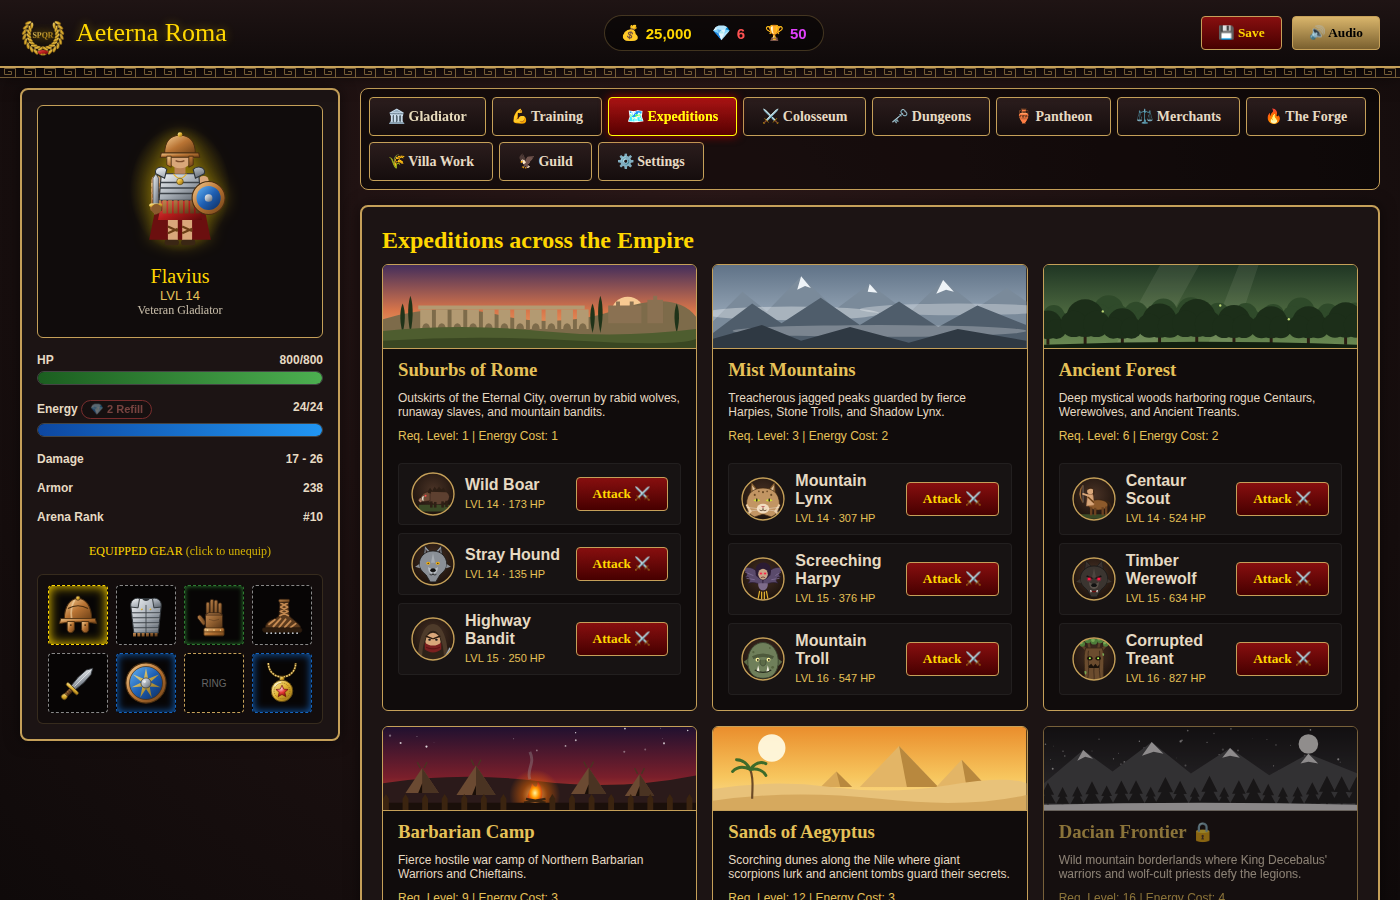
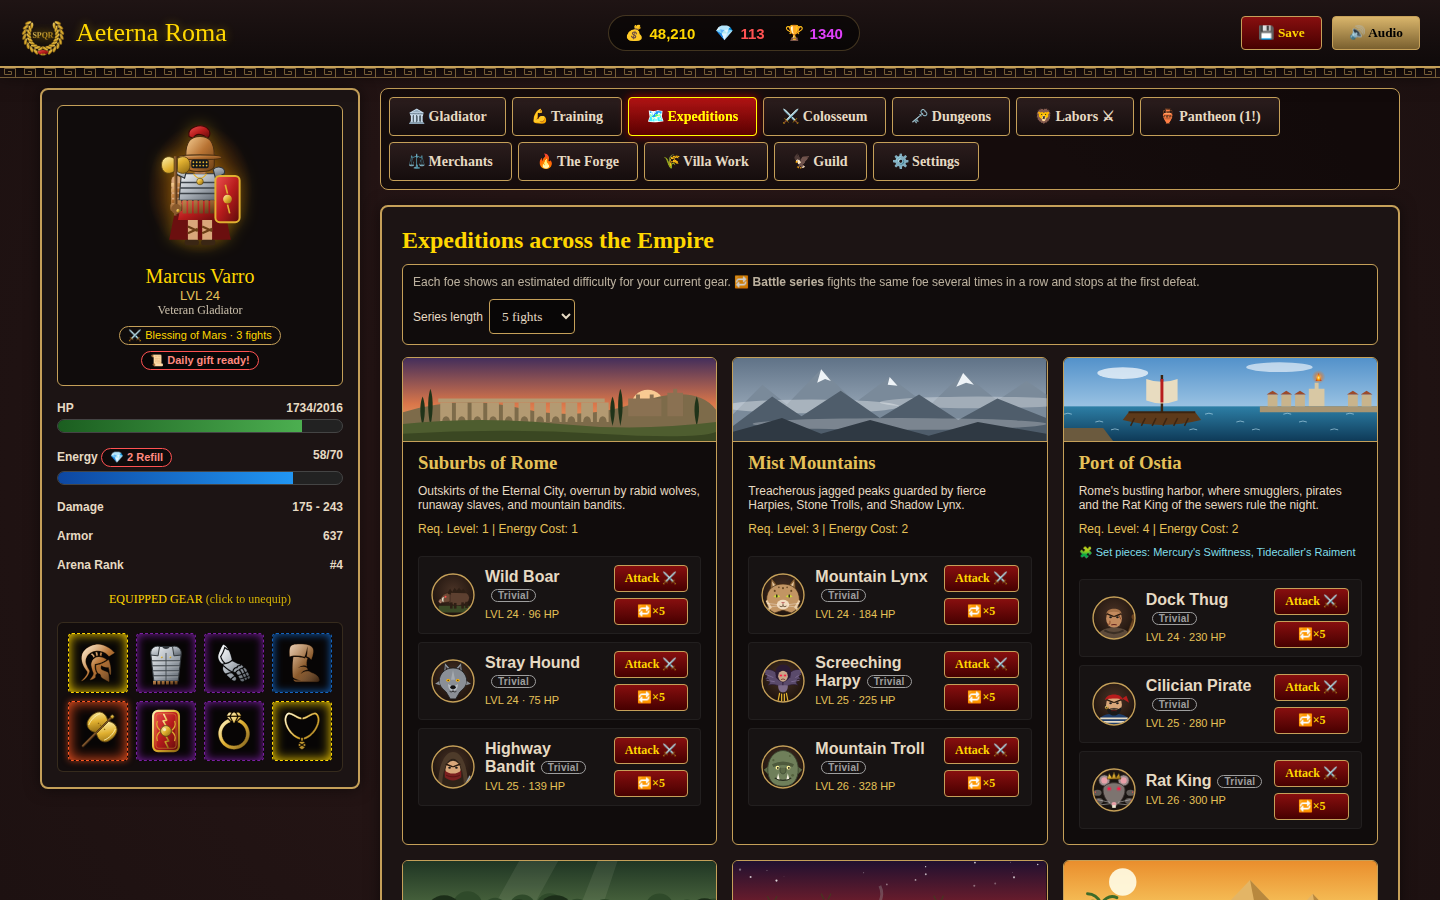
Update README screenshots
Replace the two old screenshots with four current ones: the character sheet
with an item tooltip, expeditions with difficulty ratings and battle series,
the Labors of Hercules, and a battle series report.

Claude-Session: https://claude.ai/code/session_013GLUTTHZjkzwvBJpgGdD9w

diff --git a/README.md b/README.md
@@ -4,9 +4,13 @@
 
 An offline, single-player ancient Roman RPG written in Python. The game runs entirely on your computer in its own window: no web server, no background process, no open network ports.
 
-![Expeditions screen](docs/screenshot-expeditions.png)
+![Character sheet with inventory and an item tooltip](docs/screenshot-gladiator.png)
 
-![Colosseum arena ladder](docs/screenshot-arena.png)
+![Expeditions with difficulty ratings and battle series](docs/screenshot-expeditions.png)
+
+![The Labors of Hercules](docs/screenshot-labors.png)
+
+![A battle series report](docs/screenshot-battle-series.png)
 
 ## Features
 
